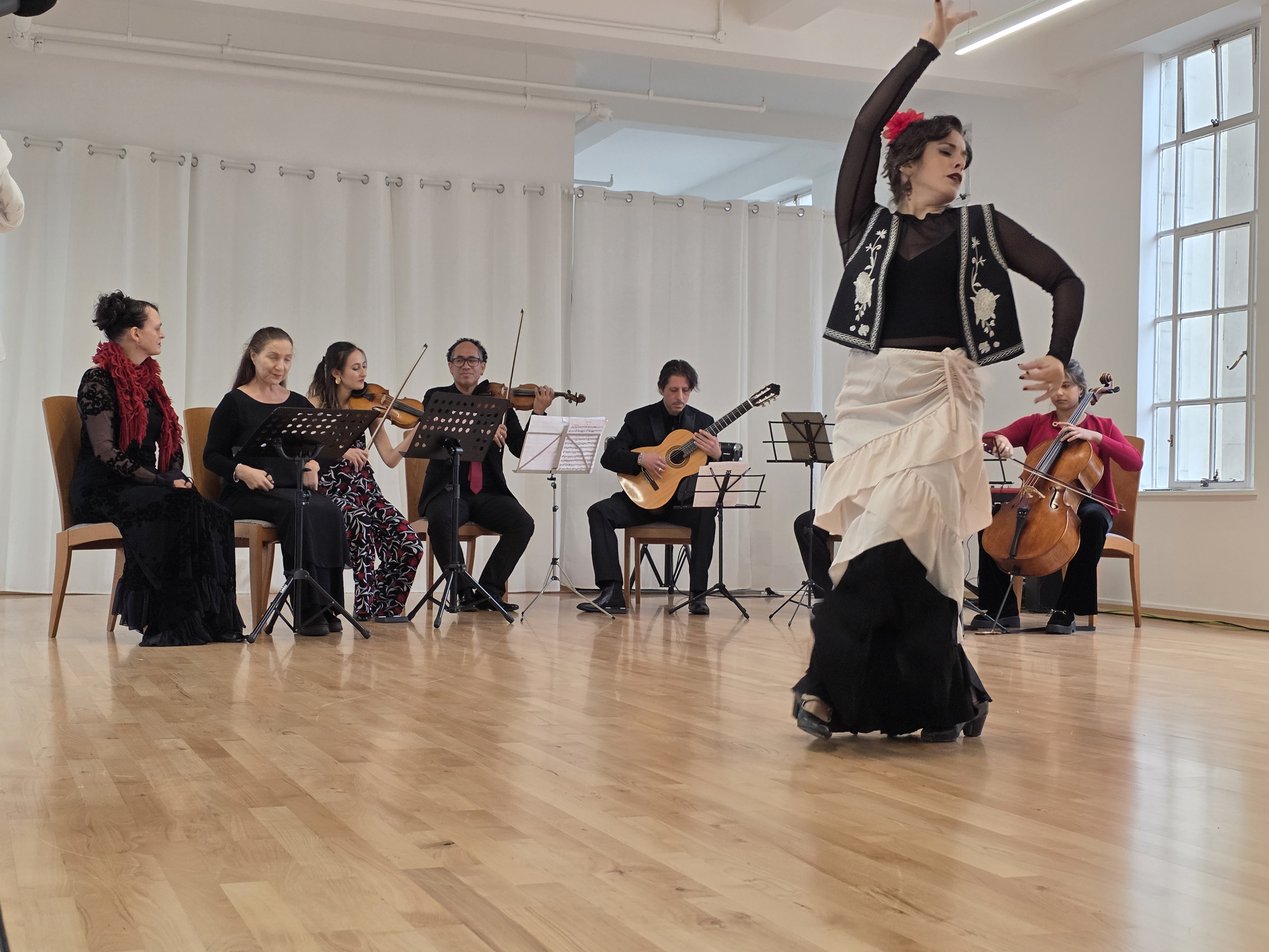
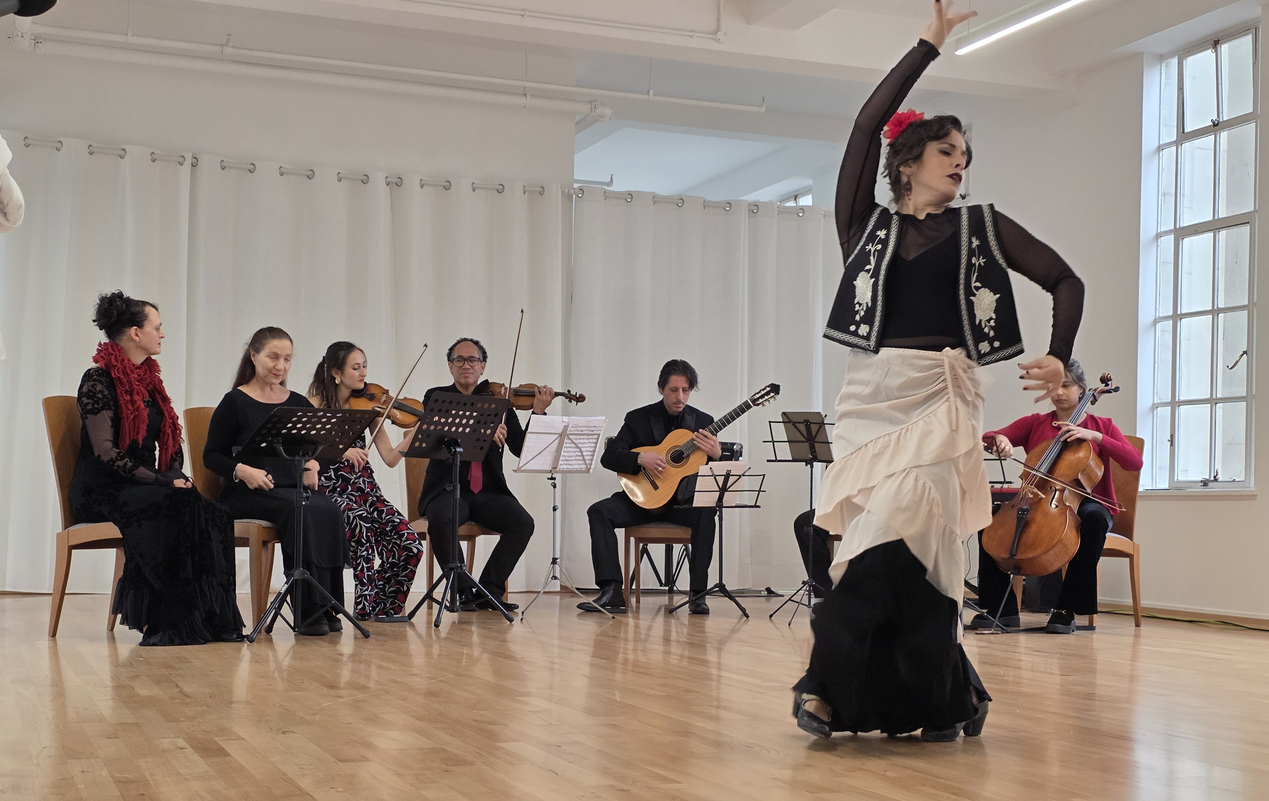
updated the November schedule

diff --git a/src/components/timetable/ClassCalendar.tsx b/src/components/timetable/ClassCalendar.tsx
@@ -14,49 +14,102 @@ import {
 import { BookingOptionsDialog } from "@/components/timetable/BookingOptionsDialog";
 import "./class-calendar.css";
 
+type WeeklyClass = {
+  day: number;
+  start: string;
+  end: string;
+  name: string;
+  style: string;
+  startDate?: string;
+  endDate?: string;
+  cancelledDates?: string[];
+};
+type DatedClass = {
+  date: string;
+  start: string;
+  end: string;
+  name: string;
+  style: string;
+  cancelled?: boolean;
+};
+type Session = {
+  date: string;
+  day: number;
+  start: string;
+  end: string;
+  name: string;
+  style: string;
+};
+type ScheduleData = {
+  classes: (ScheduleEntry | WeeklyClass)[];
+  datedClasses?: DatedClass[];
+};
+
 const STYLE_FILTER_OPTIONS = [
-  "Contemporary",
-  "Chinese Dance",
-  "Tango",
-  "Yoga",
-  "Tai Chi",
-  "Broadway Jazz",
+  "Contemporary", "Chinese Dance", "Tango", "Yoga", "Tai Chi", "Broadway Jazz", "Performance",
 ] as const;
+const LOAD_ERROR_MESSAGE = "The published timetable could not be loaded. Use Upcoming dates & booking to continue to ClassManager.";
+const EMPTY_FILTER_MESSAGE = "No sessions in this week match your filters. Try another week, day or style, or check upcoming dates in ClassManager.";
 
-const LOAD_ERROR_MESSAGE =
-  "The published timetable could not be loaded. Use Upcoming dates & booking to continue to ClassManager.";
+function dateKey(date: Date): string {
+  return date.toISOString().slice(0, 10);
+}
 
-const EMPTY_FILTER_MESSAGE =
-  "No sessions in this published timetable match your filters. Try another day or style, or check upcoming dates in ClassManager.";
+function shiftWeek(week: Date[], amount: number): Date[] {
+  const monday = new Date(week[0]);
+  monday.setUTCDate(monday.getUTCDate() + amount * 7);
+  return computeWeekDates(monday);
+}
+
+function weeklyObject(entry: ScheduleEntry | WeeklyClass): WeeklyClass {
+  if (Array.isArray(entry)) {
+    return { day: entry[0], start: entry[1], end: entry[2], name: entry[3], style: entry[4] };
+  }
+  return entry as WeeklyClass;
+}
+
+function sessionsForWeek(data: ScheduleData, week: Date[]): Session[] {
+  const dates = week.map(dateKey);
+  const sessions: Session[] = [];
+  for (const original of data.classes) {
+    const item = weeklyObject(original);
+    const date = dates[item.day];
+    if (!date || (item.startDate && date < item.startDate) || (item.endDate && date > item.endDate)) continue;
+    if (item.cancelledDates?.includes(date)) continue;
+    sessions.push({ date, day: item.day, start: item.start, end: item.end, name: item.name, style: item.style });
+  }
+  for (const item of data.datedClasses ?? []) {
+    if (item.cancelled || !dates.includes(item.date)) continue;
+    const day = dates.indexOf(item.date);
+    sessions.push({ date: item.date, day, start: item.start, end: item.end, name: item.name, style: item.style });
+  }
+  return sessions.sort((a, b) => a.day - b.day || a.start.localeCompare(b.start) || a.name.localeCompare(b.name));
+}
 
 export function ClassCalendar() {
   const sectionRef = useRef<HTMLElement>(null);
-  const [entries, setEntries] = useState<ScheduleEntry[]>([]);
+  const [schedule, setSchedule] = useState<ScheduleData>({ classes: [], datedClasses: [] });
   const [layout, setLayout] = useState<"week" | "list">("week");
   const [dayFilter, setDayFilter] = useState("all");
   const [styleFilter, setStyleFilter] = useState("all");
   const [weekDates, setWeekDates] = useState<Date[]>(() => computeWeekDates(londonToday()));
-  const [weekKey, setWeekKey] = useState(() => weekKeyFromDates(computeWeekDates(londonToday())));
   const [loadState, setLoadState] = useState<"loading" | "ready" | "error">("loading");
 
-  const weekRangeText = useMemo(() => {
-    if (weekDates.length < 7) return "";
-    return weekRangeLabel(weekDates[0], weekDates[6]);
-  }, [weekDates]);
-
+  const weekRangeText = useMemo(() => weekDates.length === 7 ? weekRangeLabel(weekDates[0], weekDates[6]) : "", [weekDates]);
+  const weekKey = weekKeyFromDates(weekDates);
+  const currentWeekKey = weekKeyFromDates(computeWeekDates(londonToday()));
+  const isCurrentWeek = weekKey === currentWeekKey;
   const weekKeyRef = useRef(weekKey);
   weekKeyRef.current = weekKey;
 
   useEffect(() => {
-    const dates = computeWeekDates(londonToday());
-    setWeekDates(dates);
-    setWeekKey(weekKeyFromDates(dates));
     const timer = window.setInterval(() => {
-      const nextDates = computeWeekDates(londonToday());
-      const nextKey = weekKeyFromDates(nextDates);
-      if (nextKey !== weekKeyRef.current) {
-        setWeekDates(nextDates);
-        setWeekKey(nextKey);
+      // Only advance automatically if the visitor is still viewing the previous current week.
+      const previousCurrent = computeWeekDates(new Date(Date.now() - 24 * 60 * 60 * 1000));
+      const now = computeWeekDates(londonToday());
+      if (weekKeyRef.current === weekKeyFromDates(previousCurrent) &&
+          weekKeyFromDates(previousCurrent) !== weekKeyFromDates(now)) {
+        setWeekDates(now);
       }
     }, 60 * 1000);
     return () => window.clearInterval(timer);
@@ -64,32 +117,22 @@ export function ClassCalendar() {
 
   useEffect(() => {
     fetch("/schedule.json")
-      .then((r) => {
-        if (!r.ok) throw new Error();
-        return r.json();
-      })
-      .then((d: { classes?: unknown }) => {
-        if (!Array.isArray(d.classes)) throw new Error();
-        setEntries(d.classes as ScheduleEntry[]);
+      .then((r) => { if (!r.ok) throw new Error("Schedule request failed"); return r.json(); })
+      .then((d: ScheduleData) => {
+        if (!Array.isArray(d.classes) || (d.datedClasses !== undefined && !Array.isArray(d.datedClasses))) throw new Error("Invalid schedule format");
+        setSchedule(d);
         setLoadState("ready");
       })
-      .catch(() => {
-        setLoadState("error");
-      });
+      .catch(() => setLoadState("error"));
   }, []);
 
-  const visible = useMemo(() => {
-    return entries.filter(
-      (e) =>
-        (dayFilter === "all" || e[0] === Number(dayFilter)) &&
-        (styleFilter === "all" || e[4] === styleFilter),
-    );
-  }, [entries, dayFilter, styleFilter]);
+  const visible = useMemo(() => sessionsForWeek(schedule, weekDates).filter((e) =>
+    (dayFilter === "all" || e.day === Number(dayFilter)) &&
+    (styleFilter === "all" || e.style === styleFilter)
+  ), [schedule, weekDates, dayFilter, styleFilter]);
 
-  const resultCountText =
-    loadState === "error"
-      ? "Timetable unavailable"
-      : `${visible.length} published sessions`;
+  const resultCountText = loadState === "error" ? "Timetable unavailable" :
+    loadState === "loading" ? "Loading timetable…" : `${visible.length} published sessions`;
 
   const gridClassName = useMemo(() => {
     const parts = ["calendar-grid"];
@@ -100,56 +143,40 @@ export function ClassCalendar() {
 
   const dayColumns = useMemo(() => {
     if (loadState !== "ready") return null;
-
-    if (!visible.length) {
-      return <p className="calendar-empty">{EMPTY_FILTER_MESSAGE}</p>;
-    }
-
+    if (!visible.length) return <p className="calendar-empty">{EMPTY_FILTER_MESSAGE}</p>;
     const columns: ReactNode[] = [];
-
     CLASS_CALENDAR_DAYS.forEach((name, i) => {
       if (dayFilter !== "all" && Number(dayFilter) !== i) return;
-      const items = visible.filter((e) => e[0] === i);
+      const items = visible.filter((e) => e.day === i);
       if (layout === "list" && !items.length) return;
-
       const date = weekDates[i];
       if (!date) return;
       const dayNum = date.getUTCDate();
       const month = CLASS_CALENDAR_MONTHS[date.getUTCMonth()];
       const year = date.getUTCFullYear();
-
       columns.push(
-        <section className="calendar-day" key={name}>
-          <h3>
-            {name.slice(0, 3)} {dayNum}
-          </h3>
-          {!items.length ? (
-            <p className="quiet">No listed sessions</p>
-          ) : (
-            items.map((e) => {
-              const colourClass = CLASS_CALENDAR_STYLE_COLOUR[e[4]] ?? "";
-              const bookLabel = `${e[3]} · published ${name} ${dayNum} ${month} ${year}, ${e[1]}–${e[2]}`;
-              return (
-                <button
-                  key={`${e[0]}-${e[1]}-${e[3]}`}
-                  type="button"
-                  className={`session-card ${colourClass}`.trim()}
-                  data-book={bookLabel}
-                  aria-label={`${e[3]}, ${name} ${dayNum} ${month}, ${e[1]} to ${e[2]}. View upcoming booking options.`}
-                >
-                  <span className="session-time">
-                    {e[1]}–{e[2]}
-                  </span>
-                  <strong>{e[3]}</strong>
-                  <span className="session-action">Booking options ↗</span>
-                </button>
-              );
-            })
-          )}
-        </section>,
+        <section className="calendar-day" key={dateKey(date)}>
+          <h3>{name.slice(0, 3)} {dayNum}</h3>
+          {!items.length ? <p className="quiet">No listed sessions</p> : items.map((e, index) => {
+            const colourClass = CLASS_CALENDAR_STYLE_COLOUR[e.style] ?? "";
+            const bookLabel = `${e.name} · published ${name} ${dayNum} ${month} ${year}, ${e.start}–${e.end}`;
+            return (
+              <button
+                key={`${e.date}-${e.start}-${e.end}-${e.name}-${index}`}
+                type="button"
+                className={`session-card ${colourClass}`.trim()}
+                data-book={bookLabel}
+                aria-label={`${e.name}, ${name} ${dayNum} ${month}, ${e.start} to ${e.end}. View upcoming booking options.`}
+              >
+                <span className="session-time">{e.start}–{e.end}</span>
+                <strong>{e.name}</strong>
+                <span className="session-action">Booking options ↗</span>
+              </button>
+            );
+          })}
+        </section>
       );
     });
-
     return columns;
   }, [dayFilter, layout, loadState, visible, weekDates]);
 
@@ -159,90 +186,46 @@ export function ClassCalendar() {
         <div className="calendar-toolbar">
           <div>
             <h2>Class calendar</h2>
-            <p>
-              Published timetable · <span id="week-range">{weekRangeText}</span>
-            </p>
+            <p>Published timetable · <span id="week-range">{weekRangeText}</span></p>
           </div>
           <div className="view-buttons" role="group" aria-label="Timetable layout">
-            <button
-              type="button"
-              id="week-view"
-              aria-pressed={layout === "week"}
-              onClick={() => setLayout("week")}
-            >
-              Week
-            </button>
-            <button
-              type="button"
-              id="list-view"
-              aria-pressed={layout === "list"}
-              onClick={() => setLayout("list")}
-            >
-              List
-            </button>
+            <button type="button" id="week-view" aria-pressed={layout === "week"} onClick={() => setLayout("week")}>Week</button>
+            <button type="button" id="list-view" aria-pressed={layout === "list"} onClick={() => setLayout("list")}>List</button>
           </div>
+        </div>
+
+        <div className="calendar-week-navigation" role="group" aria-label="Navigate timetable weeks" style={{ display: "flex", alignItems: "center", gap: "0.75rem", flexWrap: "wrap", marginBottom: "1rem" }}>
+          <button type="button" className="button" onClick={() => setWeekDates((week) => shiftWeek(week, -1))}>← Previous week</button>
+          <button type="button" className="button" disabled={isCurrentWeek} onClick={() => setWeekDates(computeWeekDates(londonToday()))}>This week</button>
+          <button type="button" className="button" onClick={() => setWeekDates((week) => shiftWeek(week, 1))}>Next week →</button>
         </div>
 
         <div className="filter-bar">
-          <label>
-            Day
-            <select
-              id="day-filter"
-              value={dayFilter}
-              onChange={(e) => setDayFilter(e.target.value)}
-            >
+          <label>Day
+            <select id="day-filter" value={dayFilter} onChange={(e) => setDayFilter(e.target.value)}>
               <option value="all">All days</option>
-              <option value="0">Monday</option>
-              <option value="1">Tuesday</option>
-              <option value="2">Wednesday</option>
-              <option value="3">Thursday</option>
-              <option value="4">Friday</option>
-              <option value="5">Saturday</option>
-              <option value="6">Sunday</option>
+              {CLASS_CALENDAR_DAYS.map((name, i) => <option key={name} value={String(i)}>{name}</option>)}
             </select>
           </label>
-          <label>
-            Style
-            <select
-              id="style-filter"
-              value={styleFilter}
-              onChange={(e) => setStyleFilter(e.target.value)}
-            >
+          <label>Style
+            <select id="style-filter" value={styleFilter} onChange={(e) => setStyleFilter(e.target.value)}>
               <option value="all">All styles</option>
-              {STYLE_FILTER_OPTIONS.map((style) => (
-                <option key={style} value={style}>
-                  {style}
-                </option>
-              ))}
+              {STYLE_FILTER_OPTIONS.map((style) => <option key={style} value={style}>{style}</option>)}
             </select>
           </label>
-          <p id="result-count" aria-live="polite">
-            {resultCountText}
-          </p>
+          <p id="result-count" aria-live="polite">{resultCountText}</p>
         </div>
 
         <p className="calendar-disclaimer">
-          Dated timetable from our website, not live availability. Check upcoming dates, prices and
-          available places in ClassManager before booking.
+          Dated timetable from our website, not live availability. Check upcoming dates, prices and available places in ClassManager before booking.
         </p>
-
         <div id="calendar" className={gridClassName}>
           {loadState === "error" ? LOAD_ERROR_MESSAGE : dayColumns}
         </div>
-        <noscript>
-          Enable JavaScript to explore the timetable and membership choices. For help booking, email
-          info@countyhalldancecentre.com.
-        </noscript>
-
+        <noscript>Enable JavaScript to explore the timetable and membership choices. For help booking, email info@countyhalldancecentre.com.</noscript>
         <div className="calendar-footer">
           <span>All times are London time.</span>
-          <button
-            className="button"
-            type="button"
-            data-book="Current classes"
-          >
-            Upcoming dates &amp; booking ↗
-          </button>
+          <button className="button" type="button" data-book="Current classes">Upcoming dates &amp; booking ↗</button>
         </div>
       </div>
       <BookingOptionsDialog sectionRef={sectionRef} />
